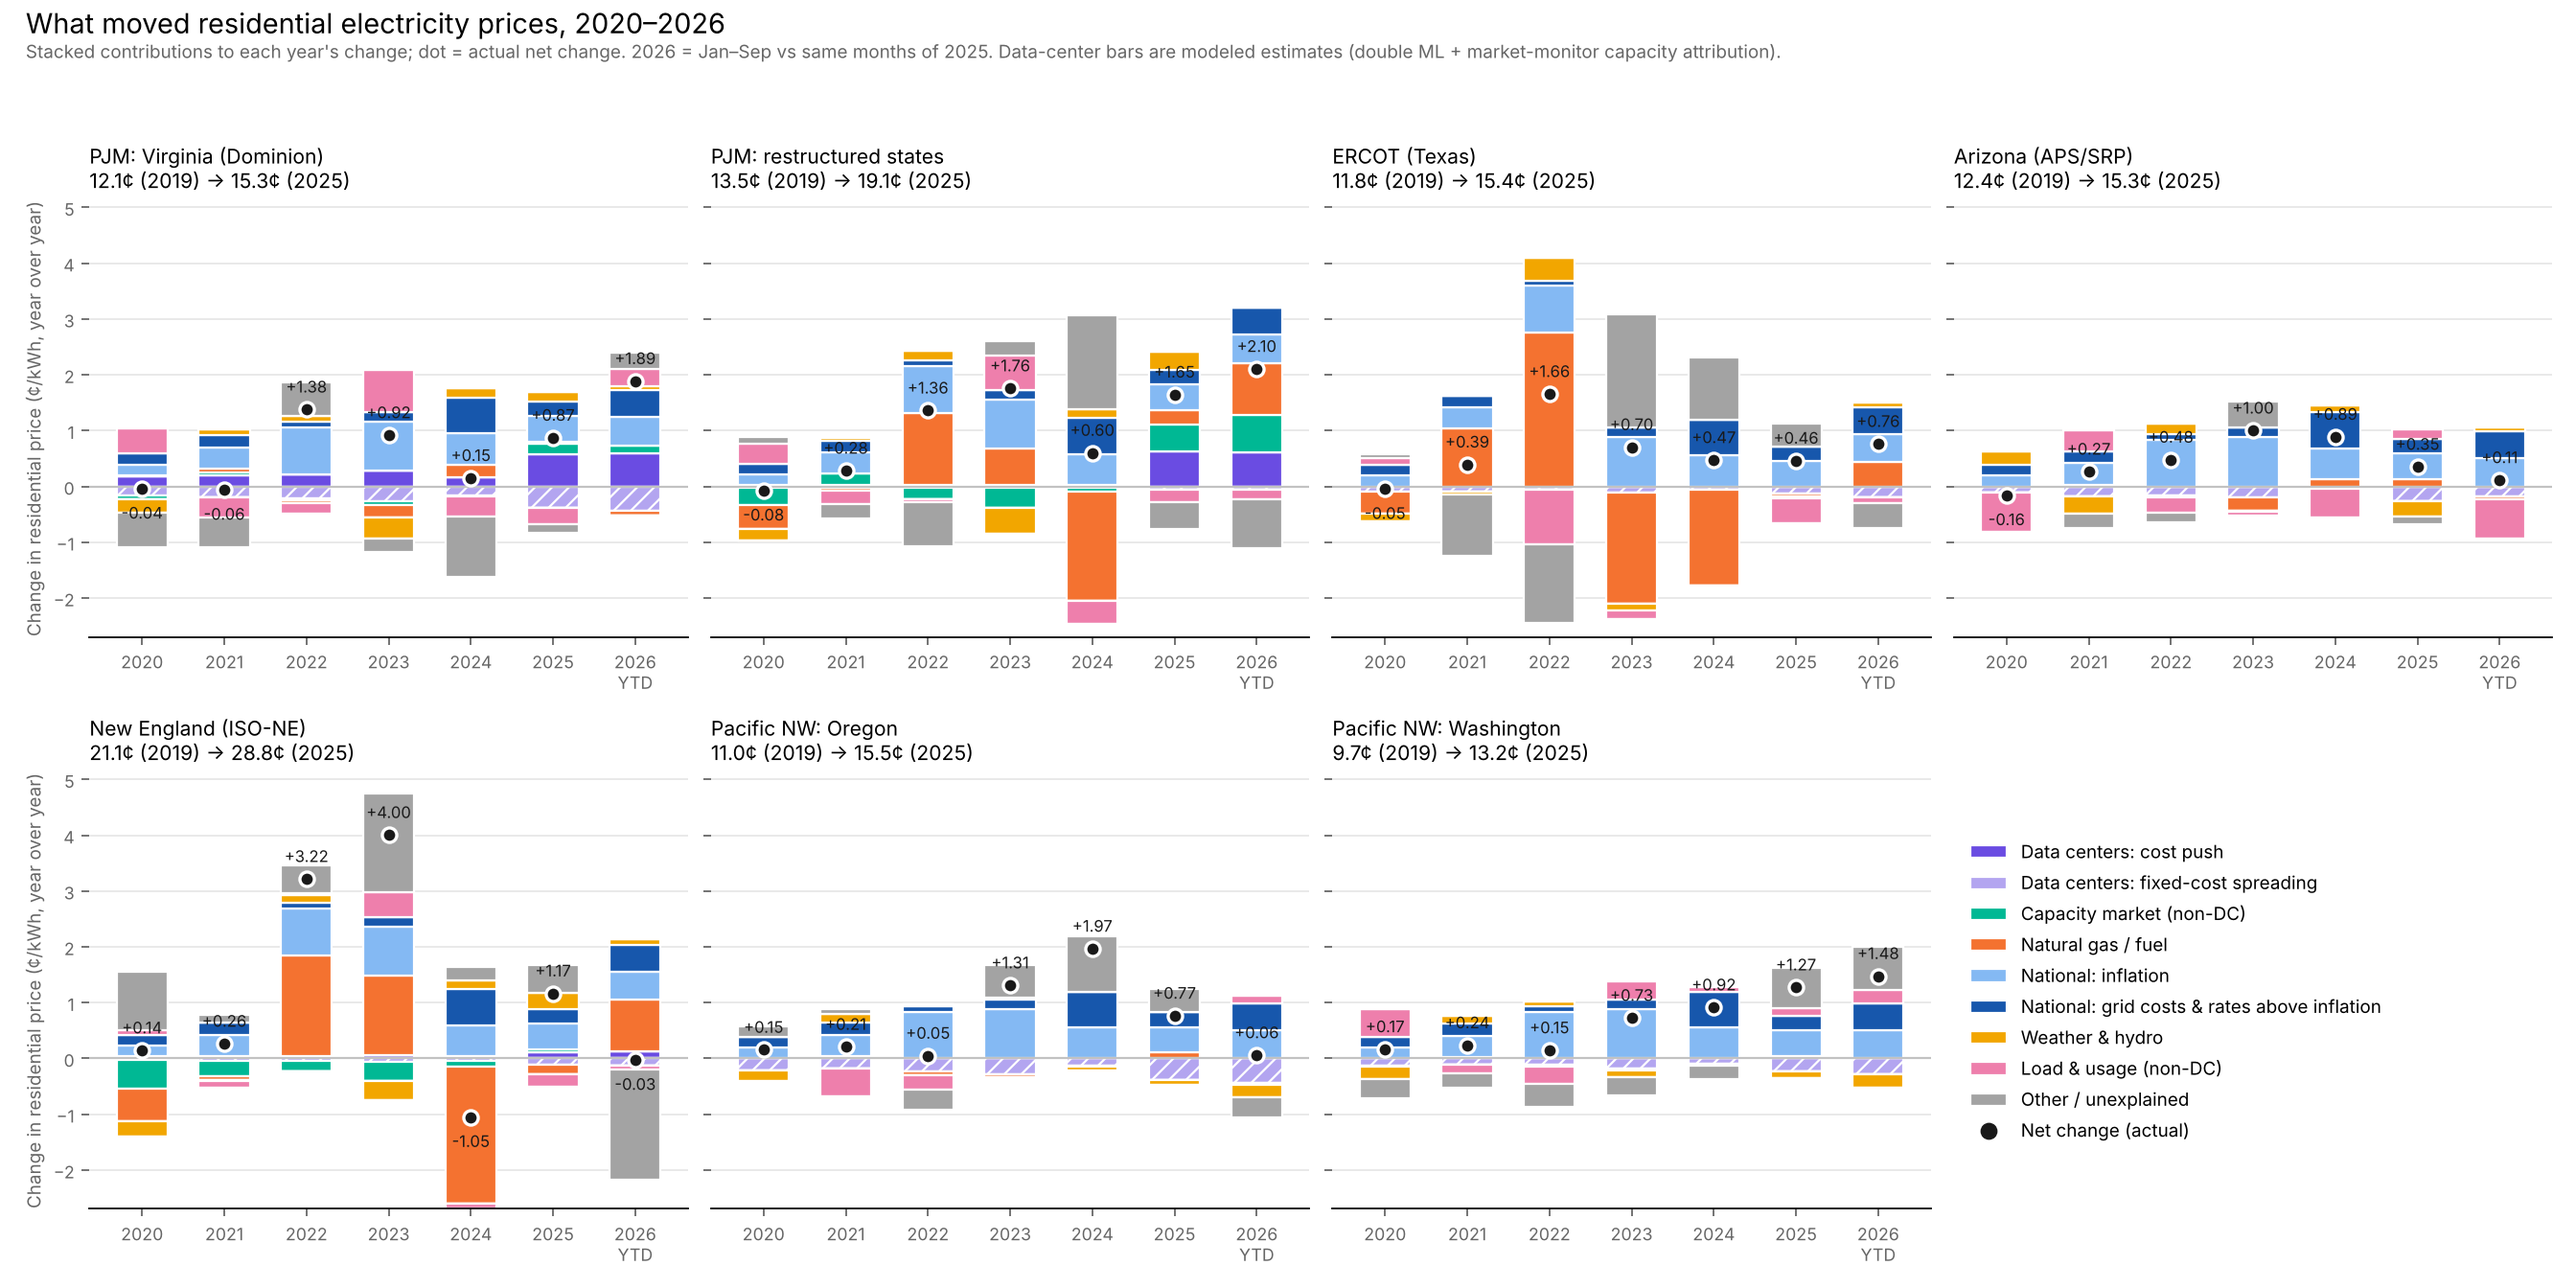
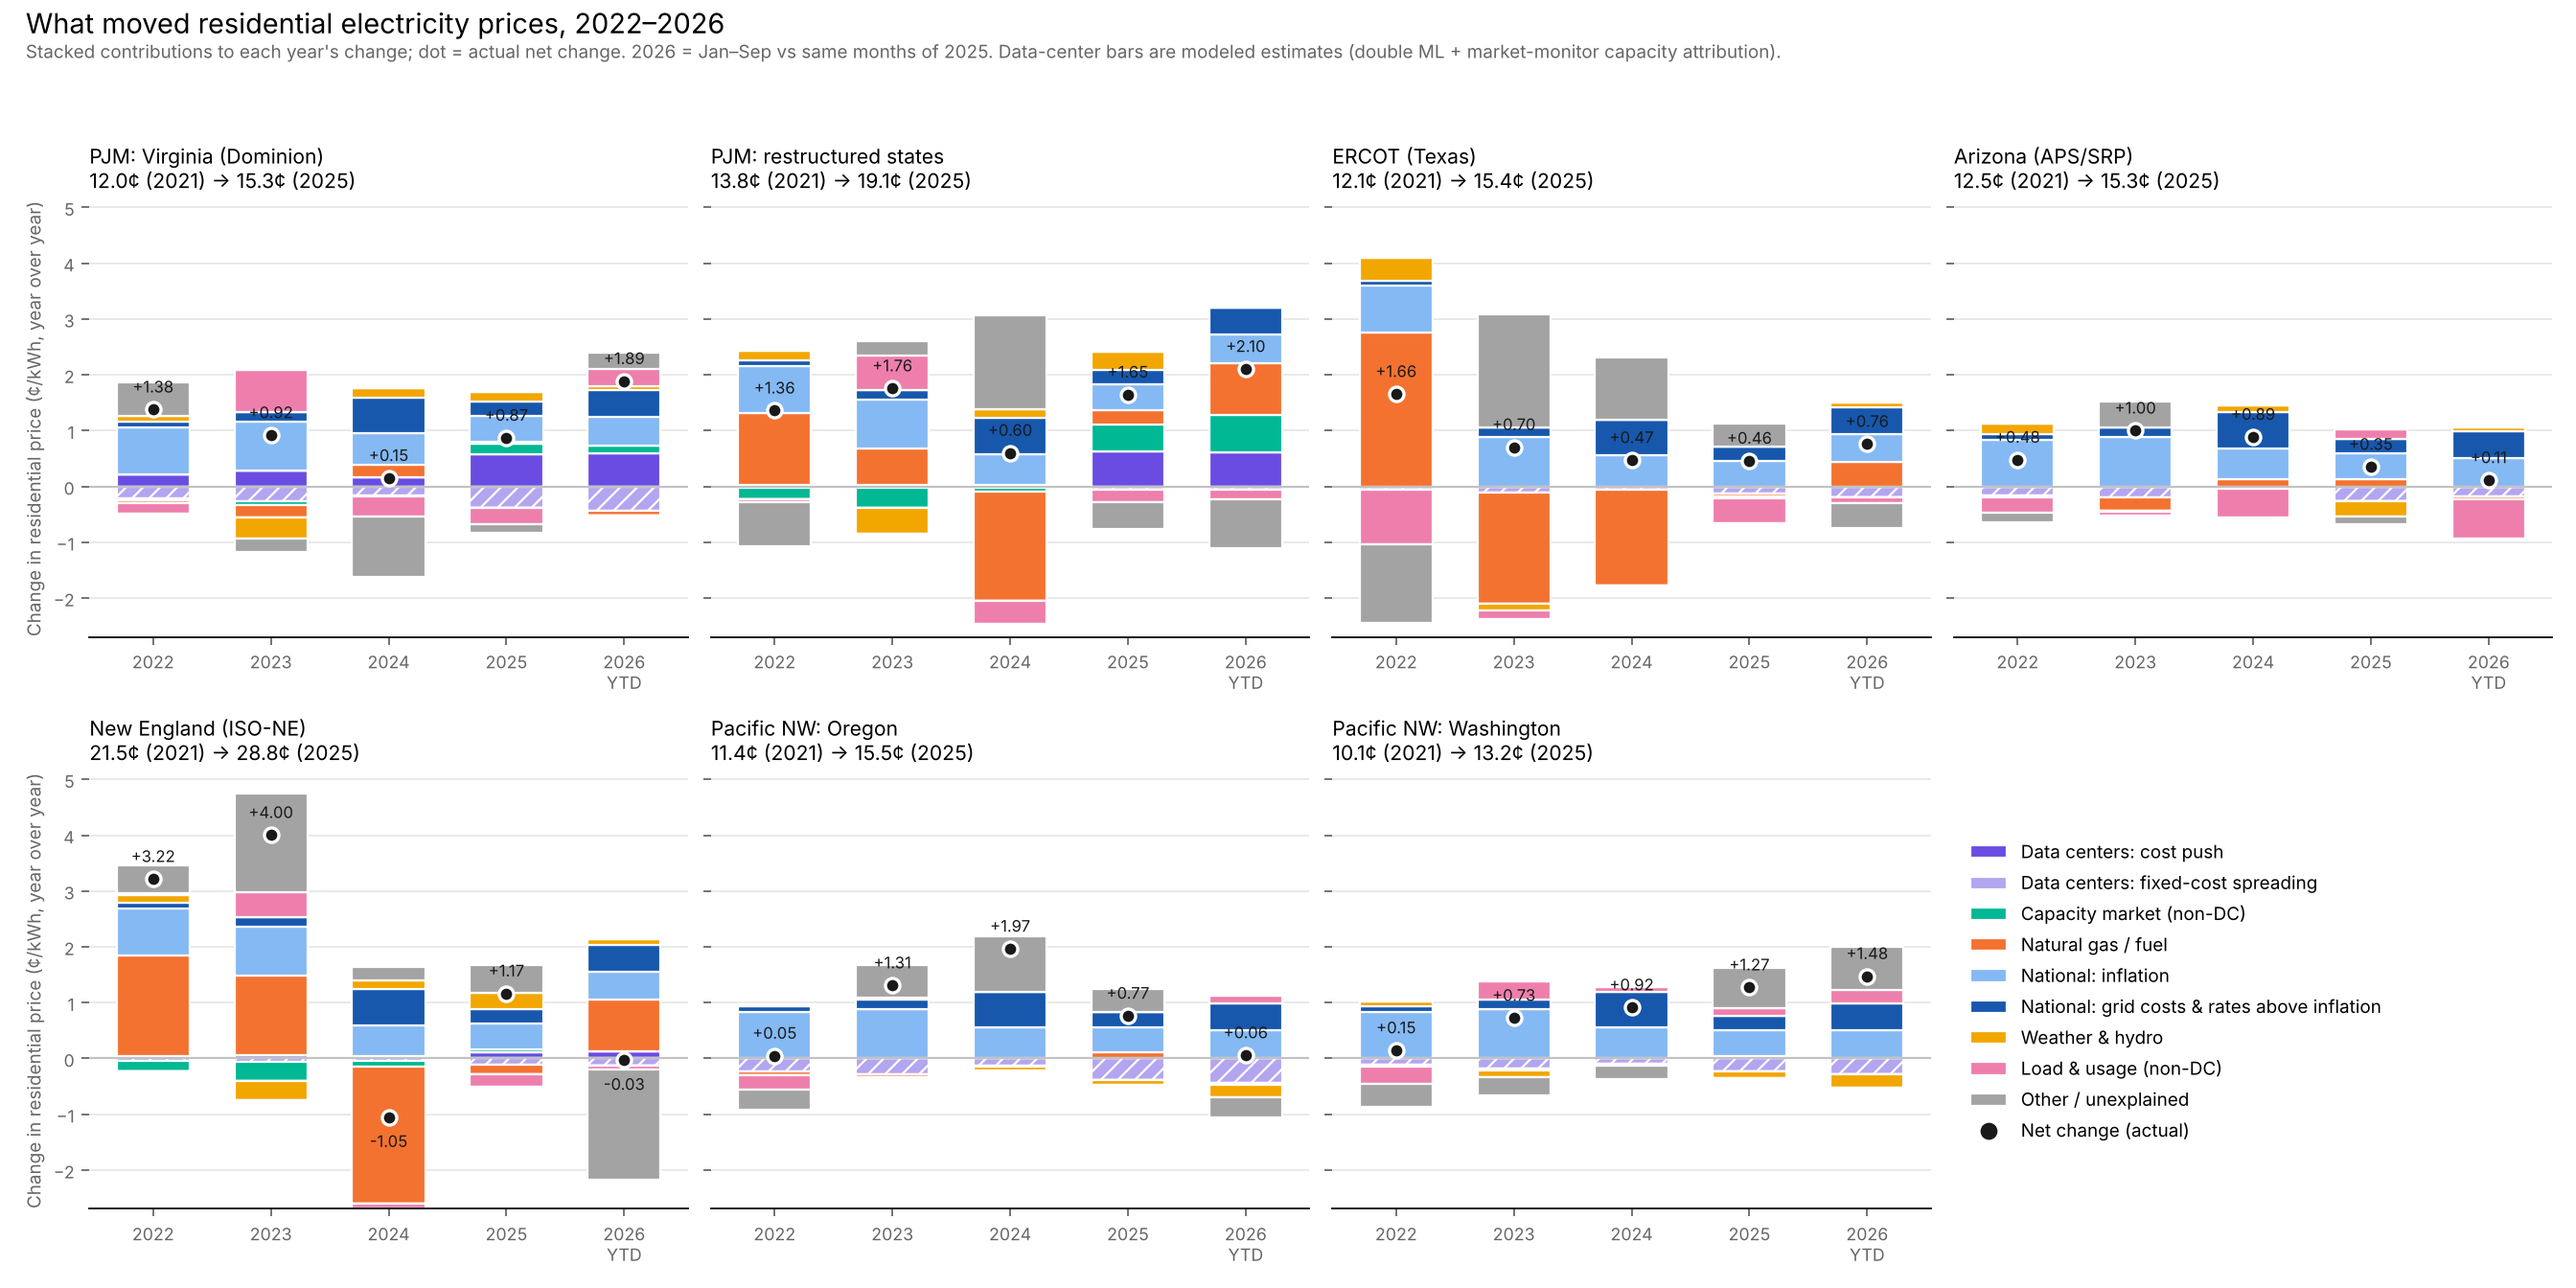
Show 2022-2026 in the decomposition chart
Claude-Session: https://claude.ai/code/session_015Urzt9ZDNawou9FKSpjZ4n

diff --git a/src/chart.py b/src/chart.py
@@ -14,6 +14,7 @@ import pandas as pd
 
 ROOT = Path(__file__).resolve().parents[1]
 OUTD = ROOT / "output"
+START_YEAR = 2022  # first year shown in the chart (full data stays in decomposition.csv)
 
 # Display groups (stack order from the zero line outward) -> source columns
 DISPLAY = [
@@ -45,7 +46,7 @@ def plot(g, path, ytd_months):
     axes = axes.ravel()
     names = [d[0] for d in DISPLAY]
     for ax, mkt in zip(axes, markets):
-        d = g[g.market == mkt].set_index("year")
+        d = g[(g.market == mkt) & (g.year >= START_YEAR)].set_index("year")
         x = np.arange(len(d))
         pos, neg = np.zeros(len(d)), np.zeros(len(d))
         for name, _, color, hatch in DISPLAY:
@@ -61,7 +62,7 @@ def plot(g, path, ytd_months):
                         ha="center", fontsize=7.5, color="#191919")
         ax.axhline(0, color="#c2c2c2", lw=1)
         ax.set_xticks(x, [str(y) if y < 2026 else f"2026\nYTD" for y in d.index], fontsize=8)
-        ax.set_title(f"{mkt}\n{d._price_prev.iloc[0]:.1f}¢ (2019) → {d._price.iloc[-2]:.1f}¢ (2025)", fontsize=9.5, loc="left")
+        ax.set_title(f"{mkt}\n{d._price_prev.iloc[0]:.1f}¢ ({START_YEAR - 1}) → {d._price.iloc[-2]:.1f}¢ (2025)", fontsize=9.5, loc="left")
         ax.grid(axis="y", color="#e7e7e7", lw=0.8)
         ax.set_axisbelow(True)
         for s in ["top", "right", "left"]:
@@ -75,7 +76,7 @@ def plot(g, path, ytd_months):
     handles.append(plt.Line2D([], [], marker="o", ls="", color="#191919", markersize=7))
     leg_ax = axes[n] if n < len(axes) else fig.add_axes([0.75, 0.05, 0.2, 0.3])
     leg_ax.legend(handles, names + ["Net change (actual)"], loc="center left", frameon=False, fontsize=8.5)
-    fig.suptitle("What moved residential electricity prices, 2020–2026", fontsize=13, x=0.01, ha="left", y=0.995)
+    fig.suptitle(f"What moved residential electricity prices, {START_YEAR}–2026", fontsize=13, x=0.01, ha="left", y=0.995)
     fig.text(0.01, 0.955, f"Stacked contributions to each year's change; dot = actual net change. 2026 = Jan–{['','Jan','Feb','Mar','Apr','May','Jun','Jul','Aug','Sep','Oct','Nov','Dec'][ytd_months]} vs same months of 2025. "
              "Data-center bars are modeled estimates (double ML + market-monitor capacity attribution).",
              fontsize=8.5, color="#666666")

diff --git a/README.md b/README.md
@@ -10,7 +10,7 @@ How much of the 2020–2026 change in residential electricity prices came from d
 
 ![decomposition](output/decomposition_chart.png)
 
-Each bar stacks the estimated contributions to that year's change in the average residential price (¢/kWh). The dot is the actual change. 2026 is January–September 2026 compared with the same months of 2025.
+Each bar stacks the estimated contributions to that year's change in the average residential price (¢/kWh). The dot is the actual change. The chart shows 2022–2026 (set by `START_YEAR` in `src/chart.py`); `output/decomposition.csv` has every year from 2020. 2026 is January–September 2026 compared with the same months of 2025.
 
 ## Headline findings (cumulative 2020–2025, ¢/kWh)
 
